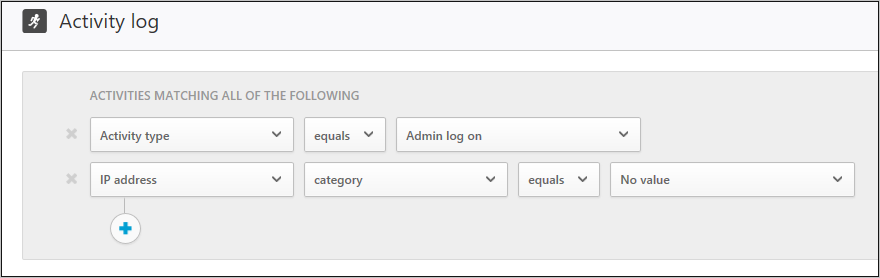
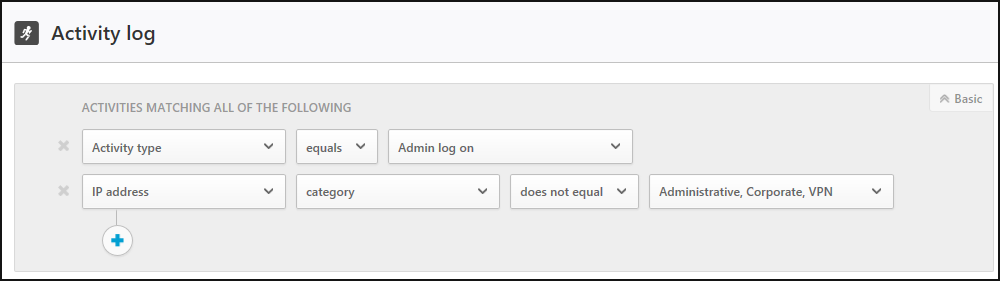
updated create file from investigation pic and desc

diff --git a/CloudAppSecurityDocs/control-cloud-apps-with-policies.md b/CloudAppSecurityDocs/control-cloud-apps-with-policies.md
@@ -119,7 +119,7 @@ To create a policy based on investigation results, perform the following:
   
 1.  In the console, click on **Investigate** followed by **Activity log**, **Files** or **Accounts**.  
   
-2.  Use the filters at the top of the page to limit the search results to the suspicious area, for example, in the Activity log page, click **Activity** and select **Admin logon**. Then, under **IP address**, select **Category** and set the value to include only IP addresses that aren't included in any of the categories you've created for your recognized domains.  
+2.  Use the filters at the top of the page to limit the search results to the suspicious area, for example, in the Activity log page, click **Activity** and select **Admin logon**. Then, under **IP address**, select **Category** and set the value to not include IP address categories you've created for your recognized domains, such as your admin, corporate and VPN IP addresses.  
   
      ![](./media/create-file-from-investigation.png)  
   
